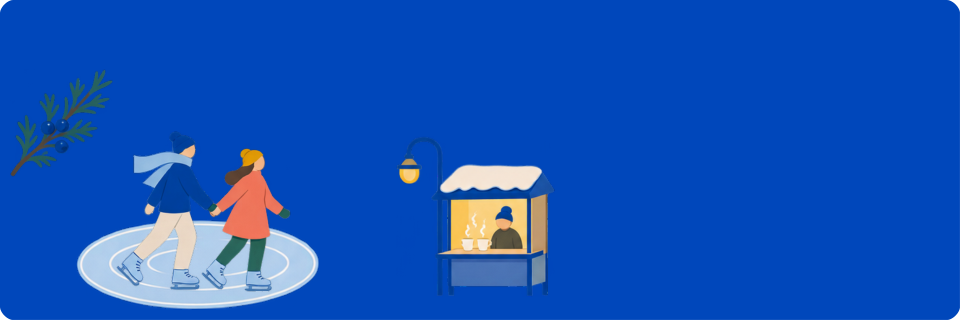
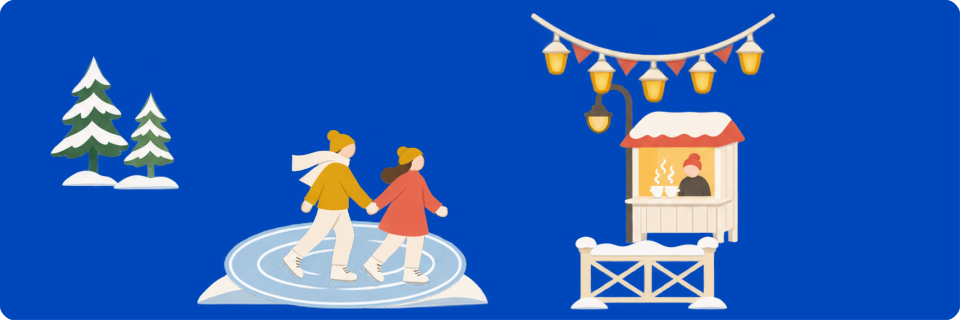
Warm up winter sticker palette and connect scenes with seasonal details

Changed region(s): [[0.0, 0.0312, 0.8125, 0.9688], [0.5312, 0.0312, 0.5625, 0.0625]]

diff --git a/winter.js b/winter.js
@@ -1,2 +1,2 @@
-const packs=[{"key": "cranberry", "name": "Клюква на дом", "category": "скраб для тела", "stories": ["Клюква приехала", "После прогулки — чай"], "descriptions": ["Курьер привёз ягоды к тёплому дому. Добавь хвою и фирменный пакет.", "Человек уже сидит в кресле. Рядом — чайный столик, выше — окно."]}, {"key": "frost", "name": "Мороз готов", "category": "диффузор для дома · 50 мл", "stories": ["Встретимся на катке", "Прогулка среди хвои"], "descriptions": ["Пара встаёт на ледяной овал. Рядом — киоск с горячим чаем.", "Прогулка среди хвои, снежный можжевельник и покупки COYLI."]}, {"key": "mandarin", "name": "Мандарин онлайн", "category": "крем-баттер с шиммером", "stories": ["За мандаринами", "Вечер с искрой"], "descriptions": ["Мандарины в авоське, любимый пакет и свет в окне.", "Кресло, мандарины на столике и немного золотистых искр."]}, {"key": "blueberry", "name": "Черничный чизкейк", "category": "крем-баттер", "stories": ["Зайти на чизкейк", "Остаться дома"], "descriptions": ["Встреча у кафе, чизкейк и покупки после прогулки.", "Книга в кресле, десерт на столике, тёплое окно и ягоды."]}, {"key": "lemon", "name": "Лимонное платье", "category": "скраб для тела", "stories": ["По пути в пекарню", "Чай после снега"], "descriptions": ["Зайти в пекарню после прогулки и взять лимонный кекс.", "Чай вдвоём, доставка на санках и лимонная деталь."]}];
+const packs=[{"key": "cranberry", "name": "Клюква на дом", "category": "скраб для тела", "stories": ["Клюква приехала", "После прогулки — чай"], "descriptions": ["Курьер привёз ягоды к тёплому дому. Добавь хвою и фирменный пакет.", "Сесть с ягодным чаем у окна, укутаться в плед и включить огоньки."]}, {"key": "frost", "name": "Мороз готов", "category": "диффузор для дома · 50 мл", "stories": ["Встретимся на катке", "Снеговик после катка"], "descriptions": ["Встретиться на катке под гирляндой. Рядом — деревянная ограда и киоск с горячим чаем.", "Вместе слепить снеговика среди заснеженных деревьев. Добавь можжевельник и огоньки."]}, {"key": "mandarin", "name": "Мандарин онлайн", "category": "крем-баттер с шиммером", "stories": ["За мандаринами", "Вечер с искрой"], "descriptions": ["Мандарины в авоське, любимый пакет и свет в окне.", "Кресло, мандарины на столике и немного золотистых искр."]}, {"key": "blueberry", "name": "Черничный чизкейк", "category": "крем-баттер", "stories": ["Зайти на чизкейк", "Остаться дома"], "descriptions": ["Встреча у кафе, чизкейк и покупки после прогулки.", "Книга в кресле, десерт на столике, тёплое окно и ягоды."]}, {"key": "lemon", "name": "Лимонное платье", "category": "скраб для тела", "stories": ["По пути в пекарню", "Чай после снега"], "descriptions": ["Зайти в пекарню после прогулки и взять лимонный кекс.", "Чай вдвоём у окна, лимонный кекс на тарелке и тёплый свет гирлянды."]}];
 const nav=document.getElementById('products');nav.innerHTML=packs.map(p=>`<a href="#${p.key}" data-key="${p.key}">${p.name}</a>`).join('');function render(){const p=packs.find(p=>p.key===location.hash.slice(1))||packs[0];document.querySelectorAll('[data-key]').forEach(a=>a.setAttribute('aria-current',String(a.dataset.key===p.key)));document.getElementById('story').innerHTML=`<p class="category">${p.category}</p><h2>${p.name}</h2><div class="scenes">${p.stories.map((s,i)=>`<figure><img src="winter-assets/${p.key}-${i+1}.png" width="960" height="320" alt="${p.descriptions[i]}"><figcaption><h3>${s}</h3><p>${p.descriptions[i]}</p></figcaption></figure>`).join('')}</div><p class="note">В примерах использованы наклейки из этого набора. Расположение можно менять под свободное место на своей упаковке.</p>`;}window.addEventListener('hashchange',render);render();
